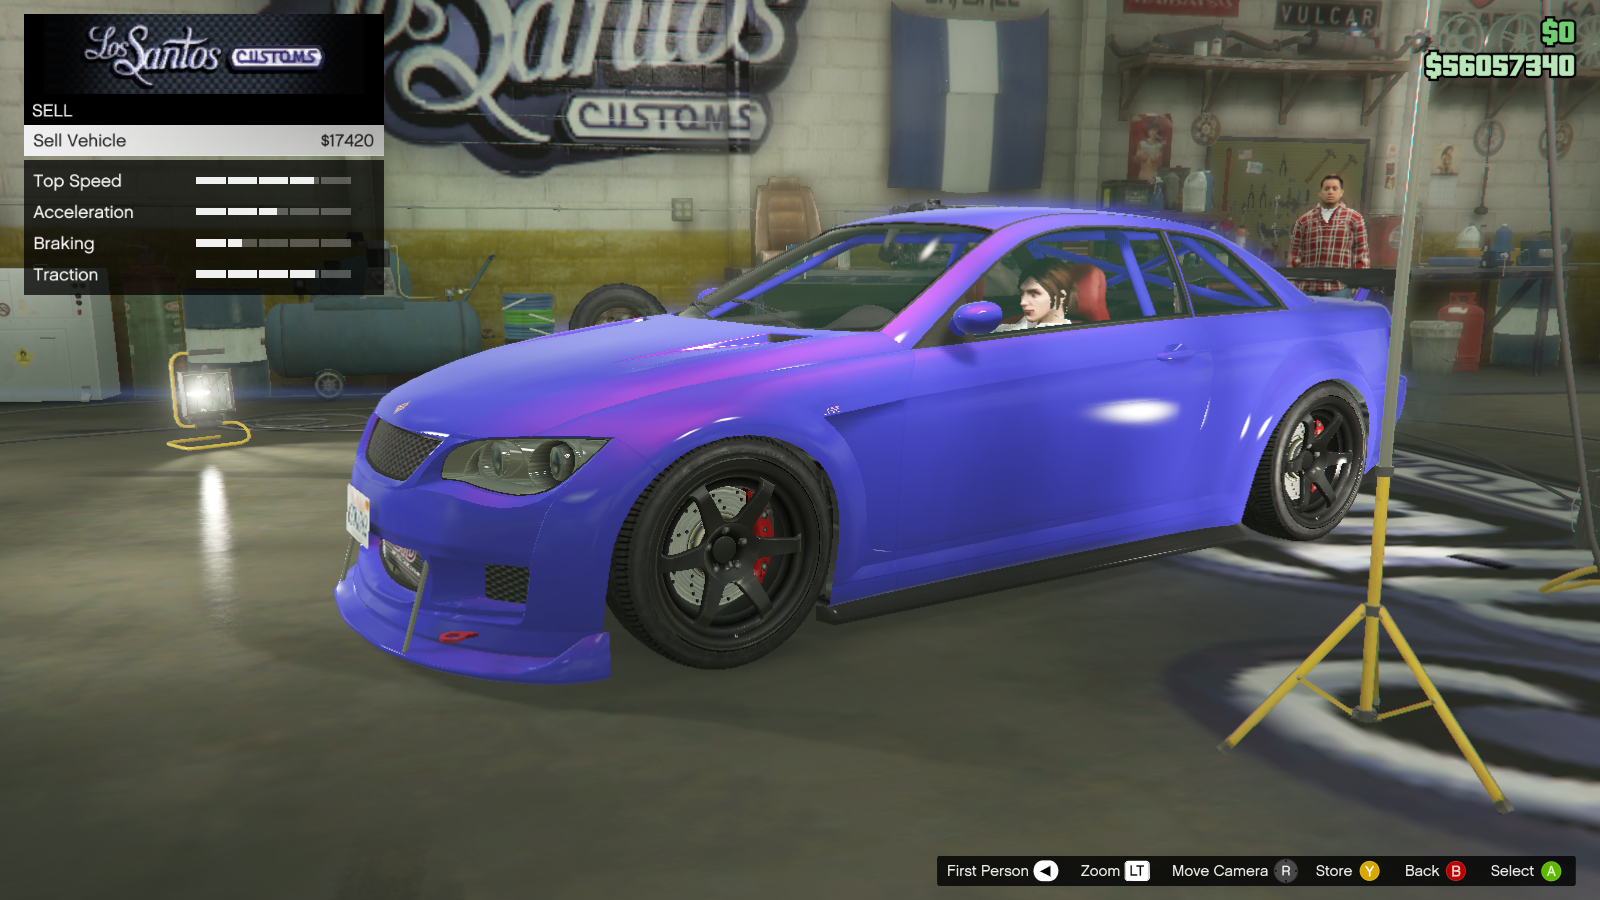
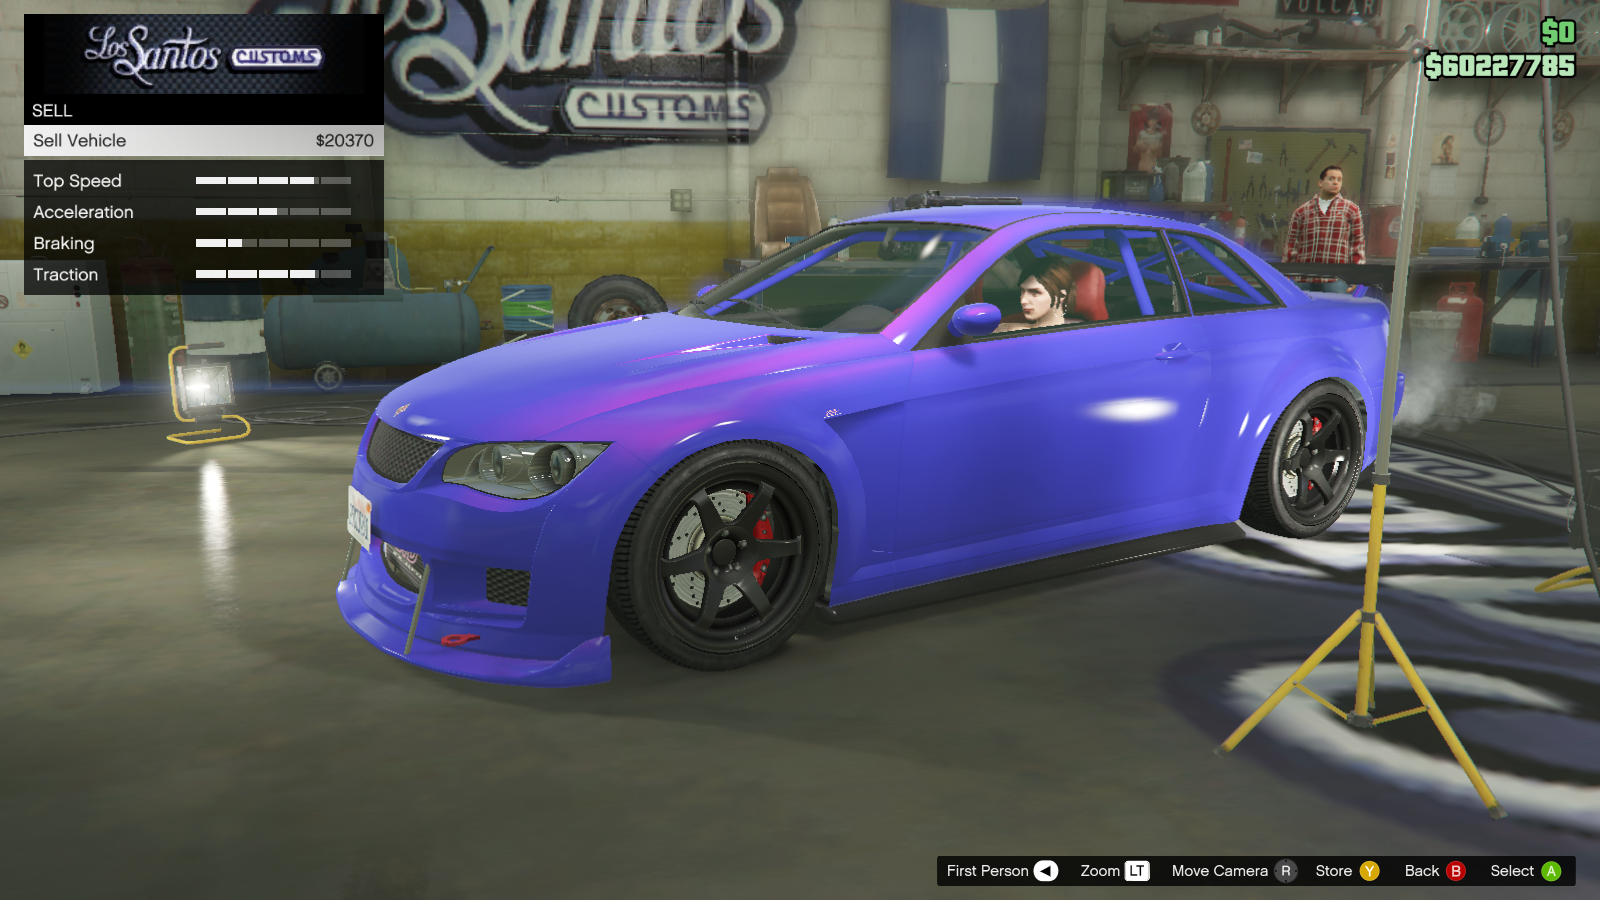
Update contents in Phases 1-2 articles of GTA Online Guides

diff --git a/collections/_gta-online-guides/en/purchases/gun-lockers.md b/collections/_gta-online-guides/en/purchases/gun-lockers.md
@@ -43,7 +43,7 @@ I could use it to toggle the loadout I defined from the gun locker.
 ![The custom weapon loadout option in the Interaction
 Menu]({{ img_path_l10n }}/toggle-loadout.png)
 
-This is not going to happen in all situations. For some gun lockers, **the
+This is not going to happen in all situations. **For some gun lockers, the
 custom weapon loadout needs to be manually enabled every time when you join a
 session**. If you forgot to enable it before starting a Freemode activity or
 joining a Heist, you will have to deal with your entire arsenal. **The option
@@ -57,7 +57,7 @@ The above screenshot was taken when I was in the Sightseer VIP Work, which is a
 Freemode activity. The custom weapon loadout option in the Interaction Menu was
 grayed out, preventing me from hiding unwanted weapon from the Weapon Wheel.
 
-For a few gun lockers, **even if you remember to enable the custom loadout, the
+**For a few gun lockers, even if you remember to enable the custom loadout, the
 weapons you have hidden will still strangely come back to the Weapon Wheel in
 Heists**. Ironically, harder Heist Missions have no tolerance for time wasted
 on weapon switching and are thus the situations where you would seriously
@@ -76,16 +76,14 @@ manually disable the custom weapon loadout. More specifically,
 - The custom weapon loadout must work everywhere, from Freemode sessions to
   Freemode activities and Heists.
 
-Flawless gun lockers that are verified by me are the **Avenger's gun locker**, a part of the Avenger Weapon Workshop, and the **Arcade's gun locker** in its personal quarters.
+Known flawless gun lockers include:
 
-![Weapon Workshop upgrade for Avenger]({{ img_path_l10n }}/avenger.png)
-![Personal Quarter upgrade for Arcade]({{ img_path_l10n }}/arcade.png)
-
-I have also seen players reporting that the **Penthouse's gun locker** bundled
-with its Office expansion is also working flawlessly, but I cannot test it by
-myself yet.
-
-![Office expansion for Penthouse]({{ img_path_l10n }}/penthouse.png)
+- The Avenger's gun locker, as a part of the Avenger Weapon Workshop
+  ![Weapon Workshop upgrade for Avenger]({{ img_path_l10n }}/avenger.png)
+- The Arcade's gun locker in its personal quarters
+  ![Personal Quarter upgrade for Arcade]({{ img_path_l10n }}/arcade.png)
+- The Penthouse's gun locker, bundled with its Office expansion
+  ![Office expansion for Penthouse]({{ img_path_l10n }}/penthouse.png)
 
 ## Interfering Gun Lockers
 

diff --git a/collections/_gta-online-guides/en/primer/max-out-stats.md b/collections/_gta-online-guides/en/primer/max-out-stats.md
@@ -102,9 +102,12 @@ stay submerged before drowning, and missions that require underwater works will
 provide scuba gears or rebreathers. There is no clear evidence showing that
 lung capacity influences your character's running or cycling performance.
 
-If you want to boost it, you can go under water and stay submerged until the
-oxygen bar below the radar flashes in red, then come up, rebreathe, dive into
-the water again, and repeat the process.
+If you want to boost it, you can buy the scuba gear from a clothes shop for
+$155,000, then dive into water and stay submerged. The scuba suit will allow
+you to dive underwater indefinitely. If you don't want to spend that money, you
+may still go under water and stay submerged until the oxygen bar below the
+radar flashes in red, then come up, rebreathe, dive into the water again, and
+repeat the process.
 
 ### Strength
 
@@ -113,6 +116,9 @@ takes you 20 punches, and there isn't any other shortcut. However, it is still
 a very important skill that is worth maxing out. If the strength stat is too
 low, your character will take more damage in falls, collisions, explosions and
 fire, increasing your character's risk of dying due to those accidents.
+
+I recommend increasing the strength stat to at least three bars, which is
+sufficient for preventing damages from most common falls.
 
 The best way to boost your character's strength stat is to find a place with a
 lot of NPCs and take them down using your fists. You can do this with the

diff --git a/collections/_gta-online-guides/en/purchases/starter-pack.md b/collections/_gta-online-guides/en/purchases/starter-pack.md
@@ -46,7 +46,7 @@ New players often ask which bundle of the game they should buy. Some of them
 are confused by what is contained in each bundle; others wonder if the Criminal
 Enterprise Starter Pack is helpful at all.
 
-First and foremost, **the Premium Online Edition is not required for playing
+First and foremost, **the Premium Online Edition is *not* required for playing
 GTA Online**. Even if you buy the standard edition with GTA V itself only, you
 will get access to GTA Online. The Premium Online Edition's name can be
 misleading, as some people, even including me when I was new to this game,
@@ -250,9 +250,8 @@ for common grinding methods:
 
 If you have a friend who can host The Diamond Casino Heist for you and is
 willing to give you the maximum cut, then things will become much more easier.
-You can get $4.6M from 2 Casino Heists, provided that in every run of the
-Heist, you get 85% cut and your team secure a take of at least $2.7M. This
-should only require 3 to 4 hours.
+You can get $4.6M from about 3 Casino Heists, which typically require 3 to 5
+hours when the time for Prep Missions is accounted.
 
 Thus, if you can find people who will carry you, then you only need a few hours
 of gameplay to earn the money equivalent to the Starter Pack's real value. In

diff --git a/collections/_gta-online-guides/en/primer/a-rough-roadmap.md b/collections/_gta-online-guides/en/primer/a-rough-roadmap.md
@@ -60,11 +60,11 @@ about things included in it.
 GTA Online has a player level system where the levels are called "Ranks", and
 the experience points for leveling up are "Reputation Points", abbreviated to
 "RP". At higher Ranks, you unlock more activities and purchasable items. During
-your start-up period, you should try to rank up quickly to unlock more items
-which will be helpful in your entire GTA Online career.
+your start-up period, you should try to [rank up quickly](reach-rank-12) to
+unlock more items which will be helpful in your entire GTA Online career.
 
 Once you reach Rank 12, you can find some teammates and start doing
-[Heists](null).  They are challenging but also interesting missions with decent
+[Heists](null). They are challenging but also interesting missions with decent
 payouts. If you can't find a reliable crew who can complete all the Heists with
 you, [Contact Missions](null) are an alternative choice of money and RP
 grinding. Although they have smaller payouts, most of them can be done by

diff --git a/collections/_gta-online-guides/en/primer/sentinel-xs-farming.md b/collections/_gta-online-guides/en/primer/sentinel-xs-farming.md
@@ -14,7 +14,7 @@ farm them and get significant profit.
 
 In the method introduced by this article, two different variants of Sentinel XS
 can spawn: the yellow one is worth $14,970, and the purple one can be sold for
-$17,420.
+$20,370.
 
 ![Two variants of Sentinel XS]({{ img_path }}/sentinel-xs-variants.png)
 
@@ -36,7 +36,8 @@ $17,420.
 3. When you turn onto the north side of the block and drive towards west, you
    might see a Sentinel XS in either yellow or purple coming to you in the
    opposite direction. It usually appears in front of the Eight-Bit Arcade. If
-   you don't see it, keep circling until you do.
+   you don't see it, circle one more time. If it still does not spawn, leave
+   the area and come back, then try again.
 
    ![The yellow variant has spawned]({{ img_path }}/yellow-spawned.png)
 

diff --git a/collections/_gta-online-guides/en/purchases/weekly-events.md b/collections/_gta-online-guides/en/purchases/weekly-events.md
@@ -35,9 +35,9 @@ PM to 6:00 PM UTC every Thursday.
 
 The place where the events are most prominently posted is Rockstar Games Social
 Club. You can find the list of current and past events in
-[https://socialclub.rockstargames.com/events](https://socialclub.rockstargames.com/events).
-Keep in mind that events for Red Dead Online are also shown at the same place;
-look for events labeled with "Grand Theft Auto Online".
+<https://socialclub.rockstargames.com/events>. Keep in mind that events for Red
+Dead Online are also shown at the same place; look for events labeled with
+"Grand Theft Auto Online".
 
 Alternatively, you may go to [Rockstar Games
 Newswire](https://www.rockstargames.com/newswire/) for a cooler presentation of

diff --git a/collections/_gta-online-guides/en/purchases/paleto-bay-properties.md b/collections/_gta-online-guides/en/purchases/paleto-bay-properties.md
@@ -10,8 +10,8 @@ This has been mentioned more or less in the previous parts of this collection,
 but it is worth emphasizing it again since it is a mistake that so many players
 will make:
 
-Do not buy a property located near Paleto Bay only because it is cheap, when
-such location has a very significant disadvantage.
+*Do not buy a property located near Paleto Bay only because it is cheap, when
+such location has a very significant disadvantage.*
 
 More specifically, you should never consider Paleto Forest Bunker if you want
 to make money with it, no matter what kind of offer on it is available to you.

diff --git a/collections/_gta-online-guides/en/purchases/property-utility-charges.md b/collections/_gta-online-guides/en/purchases/property-utility-charges.md
@@ -98,6 +98,9 @@ without its icon being shown. Here is the method:
    you for idling too long, nor will it make you pay for the property utility
    charges.
 
+   Note that the TV is not required to be turned on. As long as the TV controls
+   are shown at the screen's corner, you will not be kicked.
+
    ![Idling by watching TV]({{ img_path_l10n }}/watching-tv.png)
 
 3. When you don't need to stay AFK anymore, you can either quit the Mission
